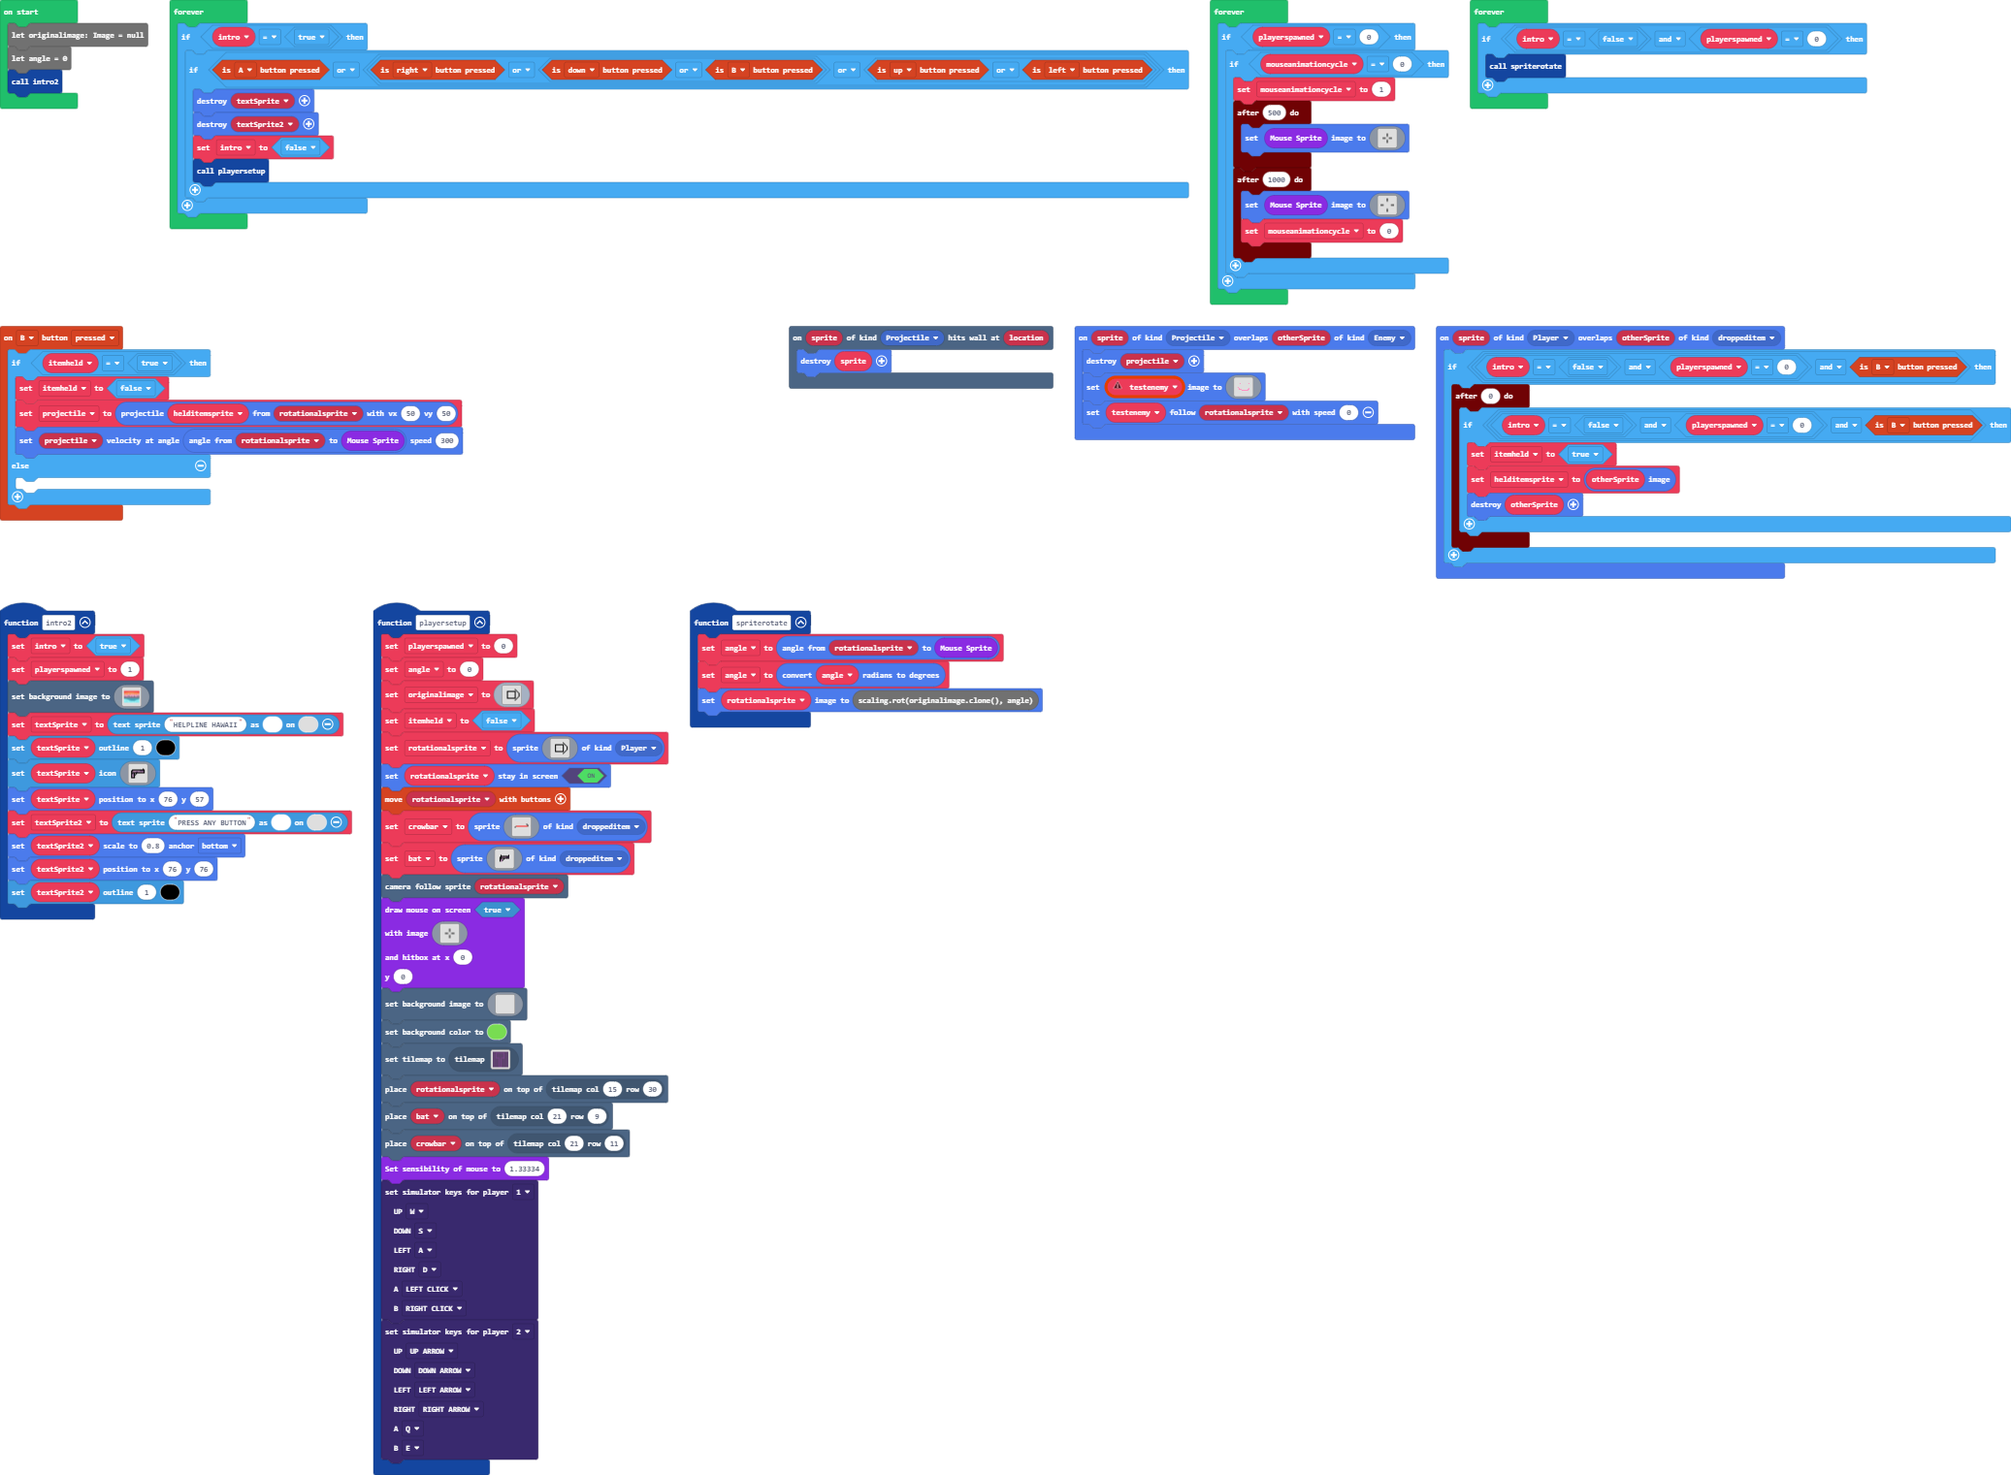
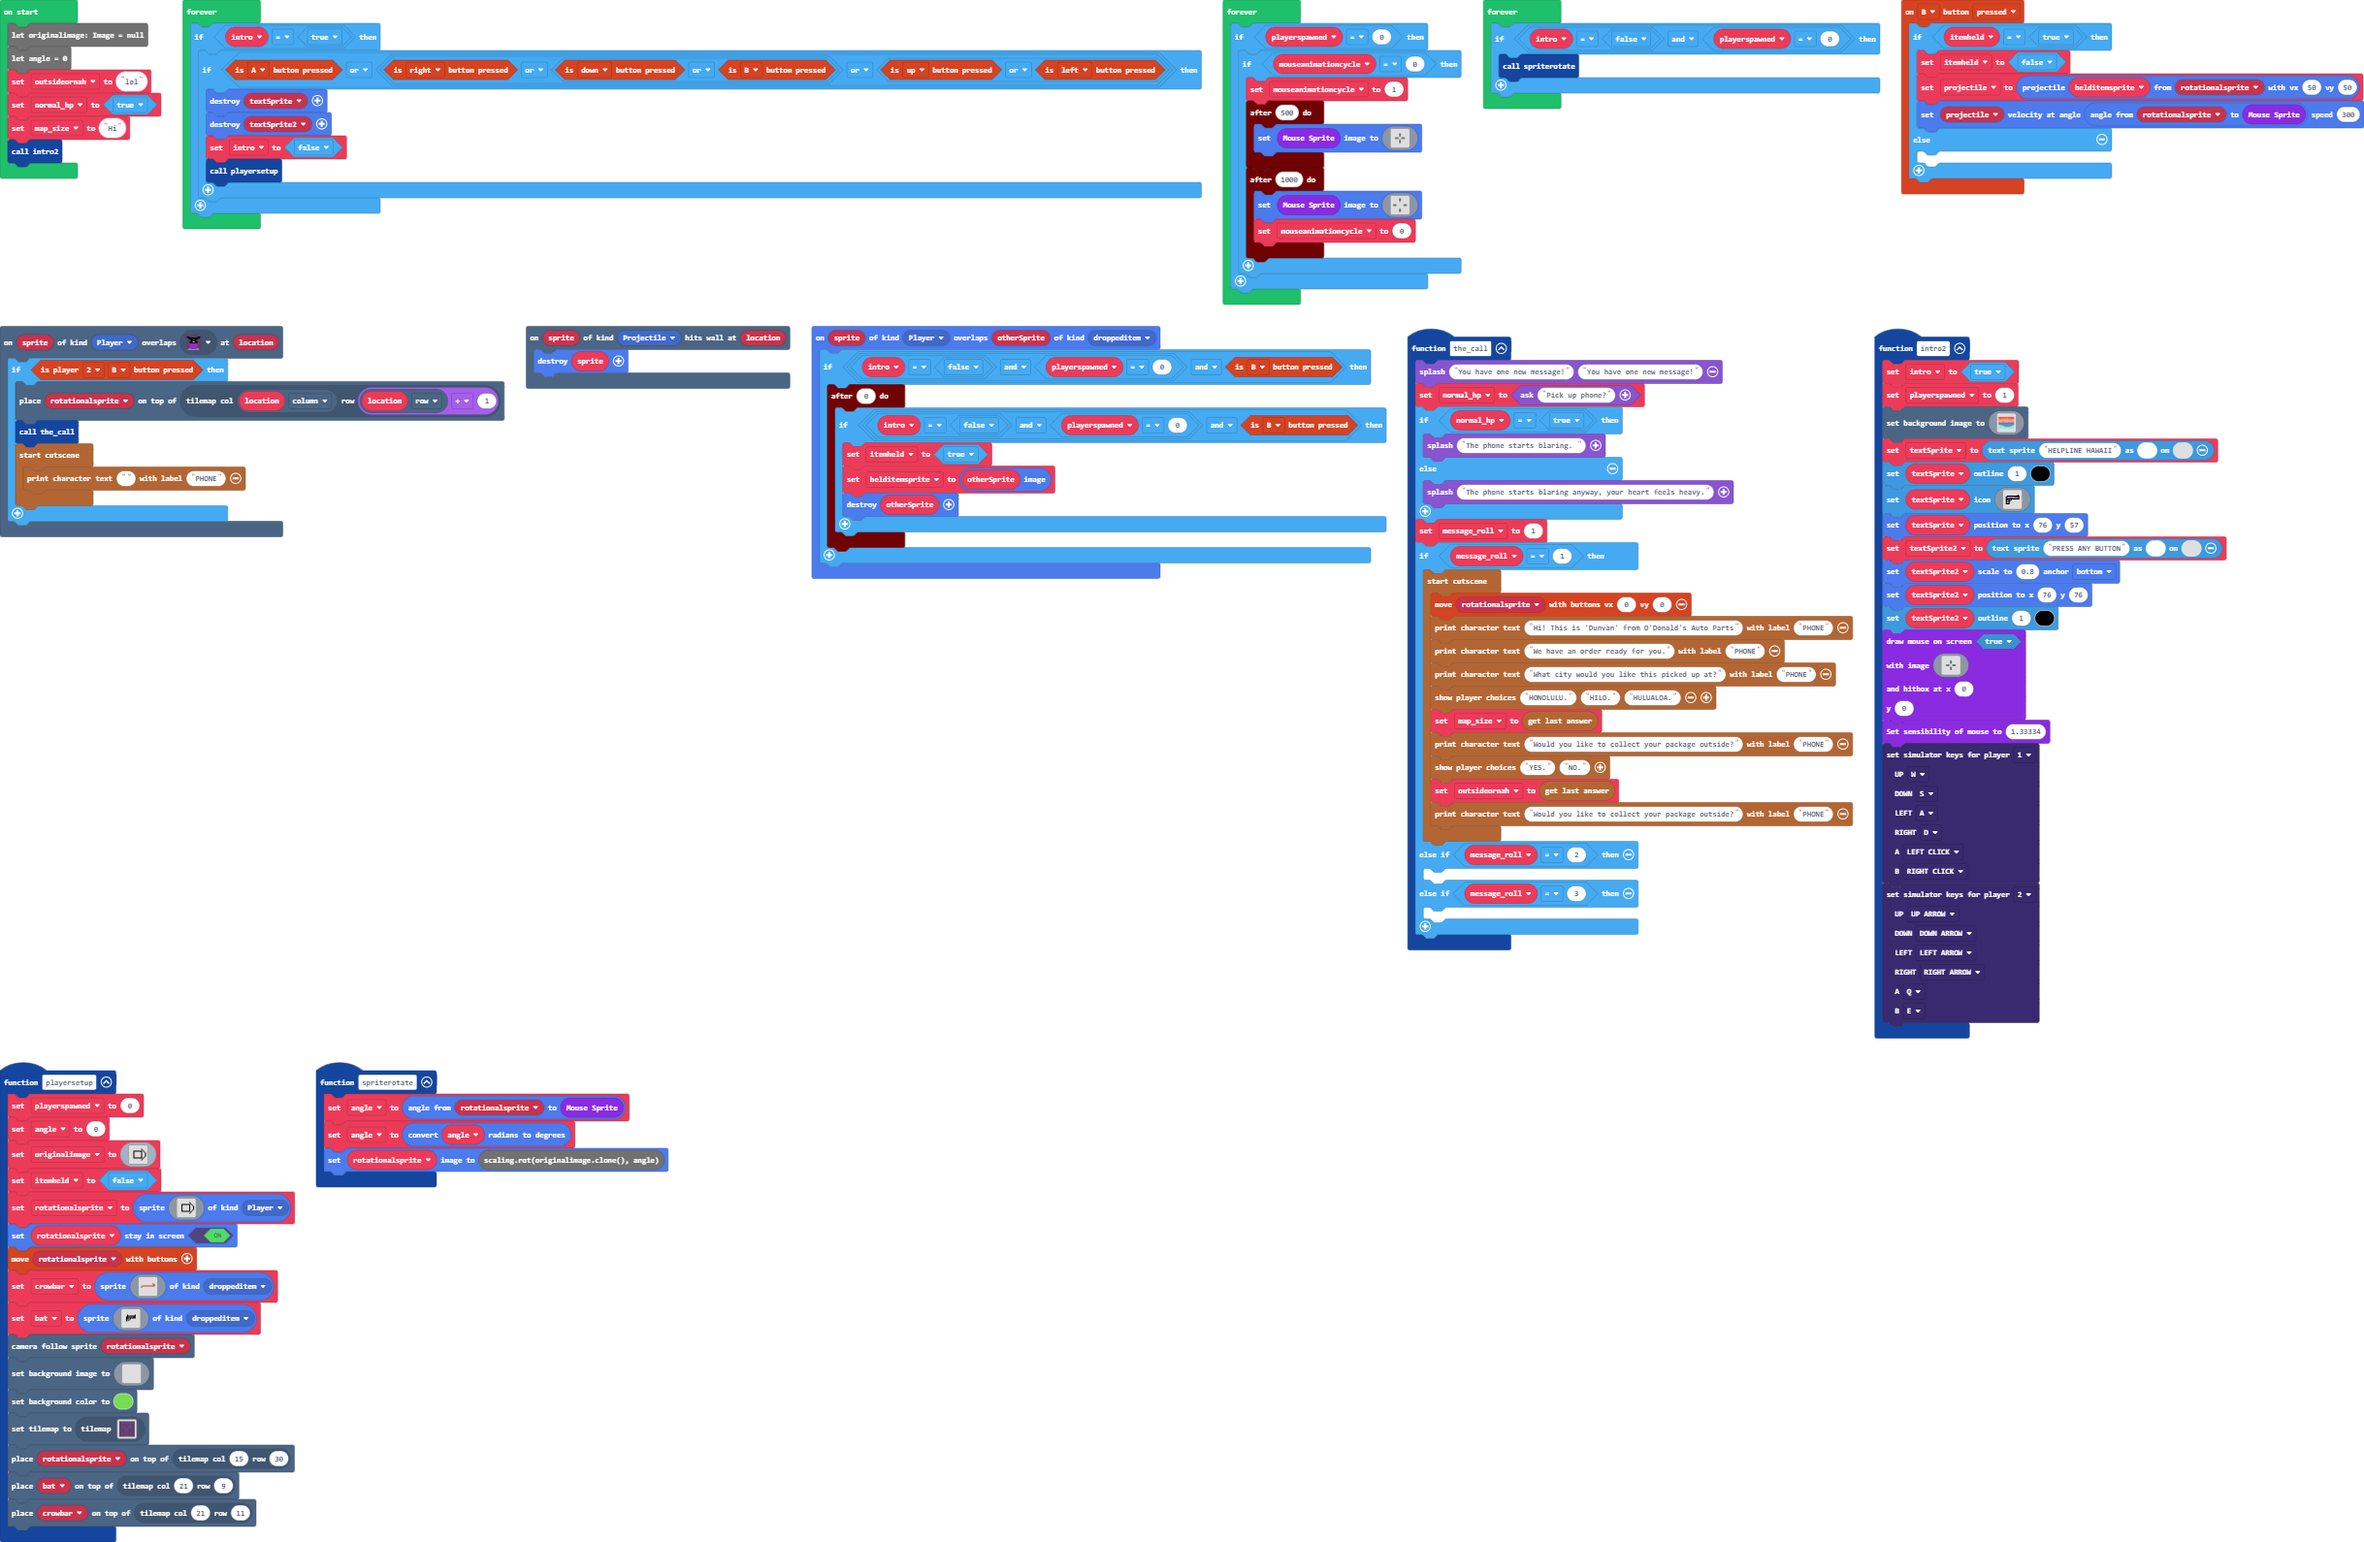
please

diff --git a/main.ts b/main.ts
@@ -1,6 +1,15 @@
 namespace SpriteKind {
     export const droppeditem = SpriteKind.create()
 }
+scene.onOverlapTile(SpriteKind.Player, assets.tile`myTile0`, function (sprite, location) {
+    if (controller.player2.isPressed(ControllerButton.B)) {
+        tiles.placeOnTile(rotationalsprite, tiles.getTileLocation(location.column, location.row + 1))
+        the_call()
+        story.startCutscene(function () {
+            story.printCharacterText("", "PHONE")
+        })
+    }
+})
 sprites.onOverlap(SpriteKind.Player, SpriteKind.droppeditem, function (sprite, otherSprite) {
     if (intro == false && playerspawned == 0 && controller.B.isPressed()) {
         timer.after(0, function () {
@@ -26,6 +35,34 @@ function spriterotate () {
     angle = spriteutils.radiansToDegrees(angle)
     rotationalsprite.setImage(scaling.rot(originalimage.clone(), angle))
 }
+function the_call () {
+    game.splash("You have one new message!", "You have one new message!")
+    normal_hp = game.ask("Pick up phone?")
+    if (normal_hp == true) {
+        game.splash("The phone starts blaring. ")
+    } else {
+        game.splash("The phone starts blaring anyway, your heart feels heavy.")
+    }
+    message_roll = 1
+    if (message_roll == 1) {
+        story.startCutscene(function () {
+            controller.moveSprite(rotationalsprite, 0, 0)
+            story.printCharacterText("Hi! This is 'Dunvan' from O'Donald's Auto Parts", "PHONE")
+            story.printCharacterText("We have an order ready for you.", "PHONE")
+            story.printCharacterText("What city would you like this picked up at?", "PHONE")
+            story.showPlayerChoices("HONOLULU.", "HILO.", "HULUALOA.")
+            map_size = story.getLastAnswer()
+            story.printCharacterText("Would you like to collect your package outside?", "PHONE")
+            story.showPlayerChoices("YES.", "NO.")
+            outsideornah = story.getLastAnswer()
+            story.printCharacterText("Would you like to collect your package outside?", "PHONE")
+        })
+    } else if (message_roll == 2) {
+    	
+    } else if (message_roll == 3) {
+    	
+    }
+}
 scene.onHitWall(SpriteKind.Projectile, function (sprite, location) {
     sprites.destroy(sprite)
 })
@@ -41,30 +78,12 @@ function intro2 () {
     textSprite2.setScale(0.8, ScaleAnchor.Bottom)
     textSprite2.setPosition(76, 76)
     textSprite2.setOutline(1, 15)
-}
-function playersetup () {
-    playerspawned = 0
-    angle = 0
-    originalimage = assets.image`myImage`
-    itemheld = false
-    rotationalsprite = sprites.create(assets.image`myImage`, SpriteKind.Player)
-    rotationalsprite.setStayInScreen(true)
-    controller.moveSprite(rotationalsprite)
-    crowbar = sprites.create(assets.image`crowbar`, SpriteKind.droppeditem)
-    bat = sprites.create(assets.image`enemy gun`, SpriteKind.droppeditem)
-    scene.cameraFollowSprite(rotationalsprite)
     Mouse.DrawMouse(
     true,
     assets.image`secondmousesmall`,
     0,
     0
     )
-    scene.setBackgroundImage(assets.image`a`)
-    scene.setBackgroundColor(7)
-    tiles.setCurrentTilemap(tilemap`starting area`)
-    tiles.placeOnTile(rotationalsprite, tiles.getTileLocation(15, 30))
-    tiles.placeOnTile(bat, tiles.getTileLocation(21, 9))
-    tiles.placeOnTile(crowbar, tiles.getTileLocation(21, 11))
     Mouse.Setsensibility(1.33334)
     Keybinds.setSimulatorKeymap(
     Keybinds.PlayerNumber.ONE,
@@ -85,25 +104,44 @@ function playersetup () {
     Keybinds.CustomKey.E
     )
 }
-sprites.onOverlap(SpriteKind.Projectile, SpriteKind.Enemy, function (sprite, otherSprite) {
-    let testenemy: Sprite = null
-    sprites.destroy(projectile)
-    testenemy.setImage(assets.image`dumb smile`)
-    testenemy.follow(rotationalsprite, 0)
-})
+function playersetup () {
+    playerspawned = 0
+    angle = 0
+    originalimage = assets.image`myImage`
+    itemheld = false
+    rotationalsprite = sprites.create(assets.image`myImage`, SpriteKind.Player)
+    rotationalsprite.setStayInScreen(true)
+    controller.moveSprite(rotationalsprite)
+    crowbar = sprites.create(assets.image`crowbar`, SpriteKind.droppeditem)
+    bat = sprites.create(assets.image`enemy gun`, SpriteKind.droppeditem)
+    scene.cameraFollowSprite(rotationalsprite)
+    scene.setBackgroundImage(assets.image`a`)
+    scene.setBackgroundColor(7)
+    tiles.setCurrentTilemap(tilemap`starting area`)
+    tiles.placeOnTile(rotationalsprite, tiles.getTileLocation(15, 30))
+    tiles.placeOnTile(bat, tiles.getTileLocation(21, 9))
+    tiles.placeOnTile(crowbar, tiles.getTileLocation(21, 11))
+}
 let mouseanimationcycle = 0
 let bat: Sprite = null
 let crowbar: Sprite = null
 let textSprite2: TextSprite = null
 let textSprite: TextSprite = null
-let rotationalsprite: Sprite = null
+let message_roll = 0
 let projectile: Sprite = null
 let helditemsprite: Image = null
 let itemheld = false
 let playerspawned = 0
 let intro = false
+let rotationalsprite: Sprite = null
+let map_size = ""
+let normal_hp = false
+let outsideornah = ""
 let originalimage: Image = null
 let angle = 0
+outsideornah = "lol"
+normal_hp = true
+map_size = "Hi"
 intro2()
 forever(function () {
     if (intro == true) {
